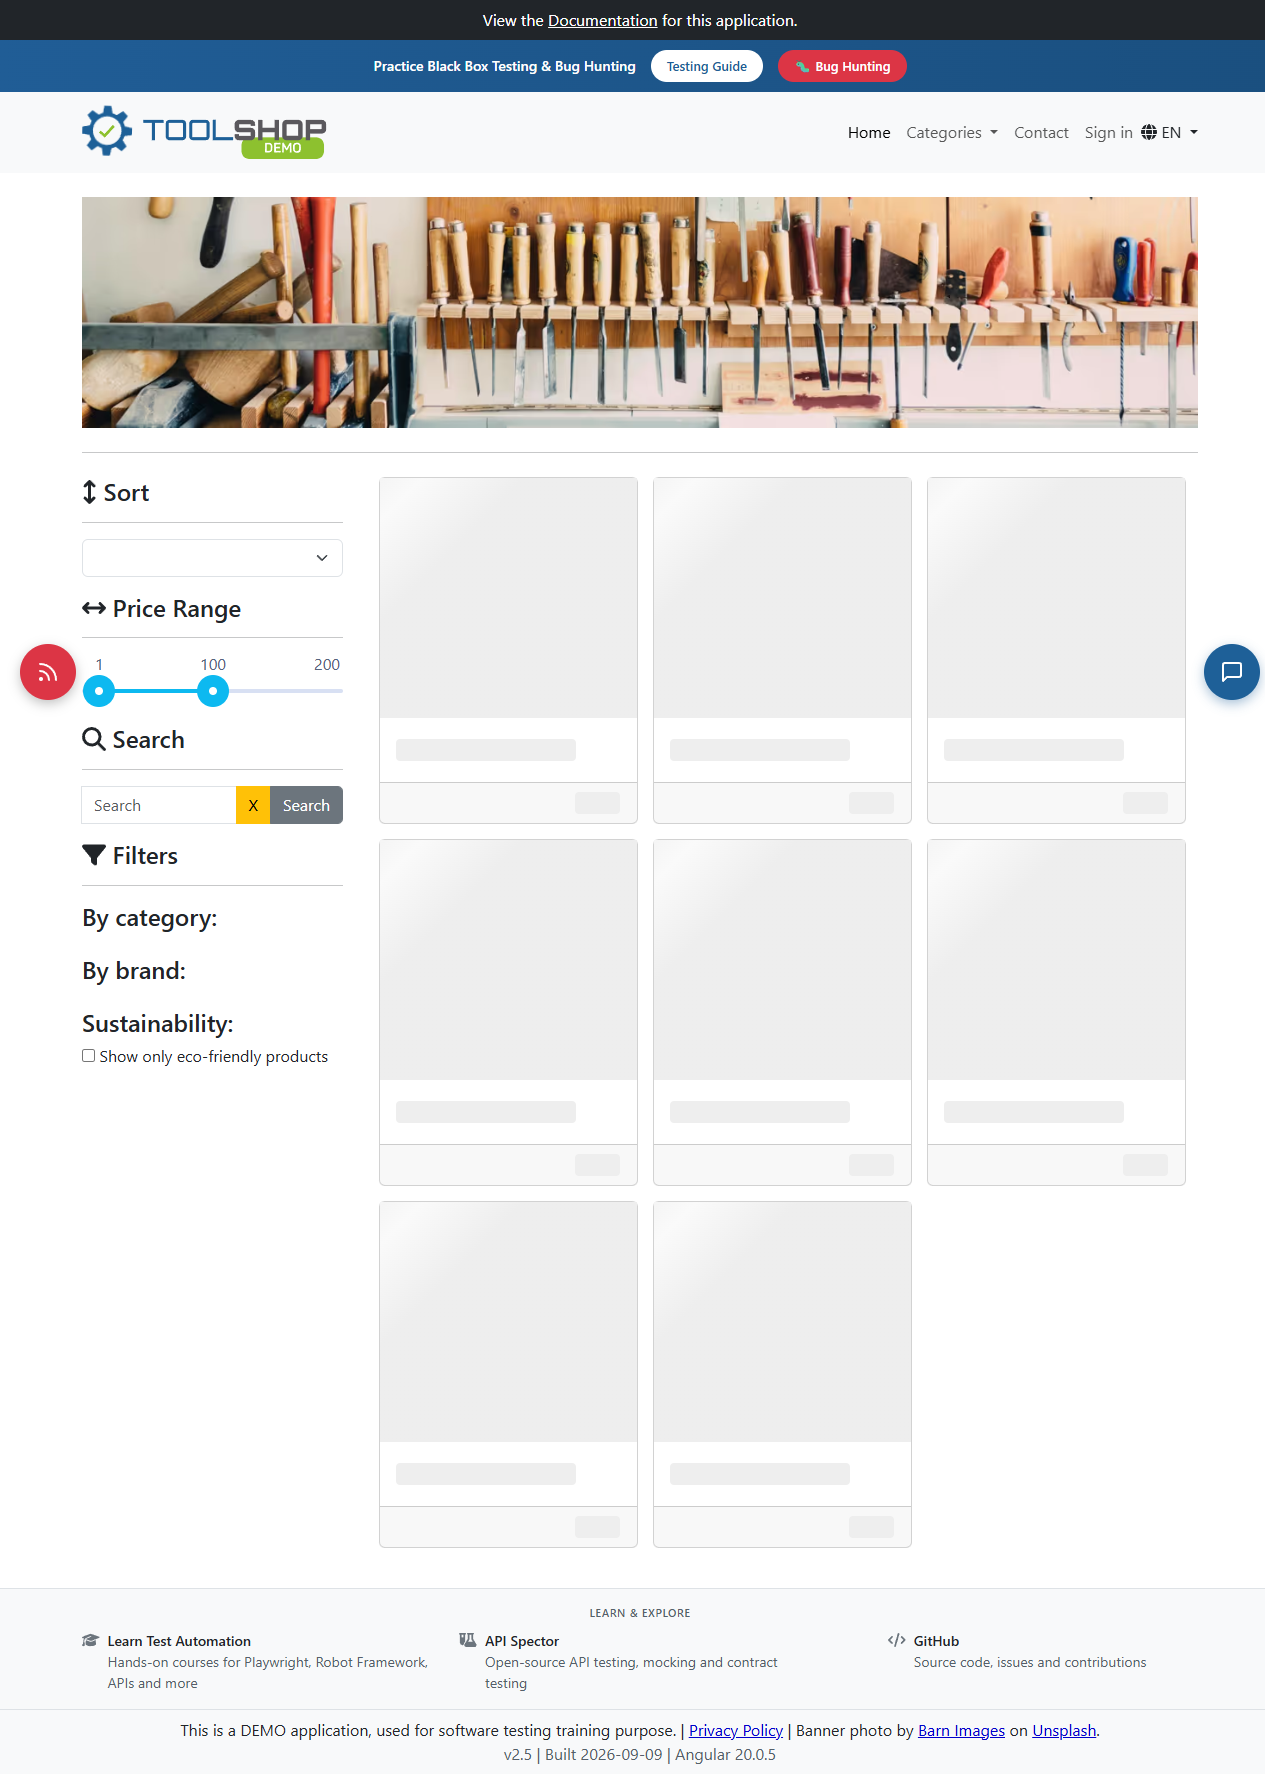
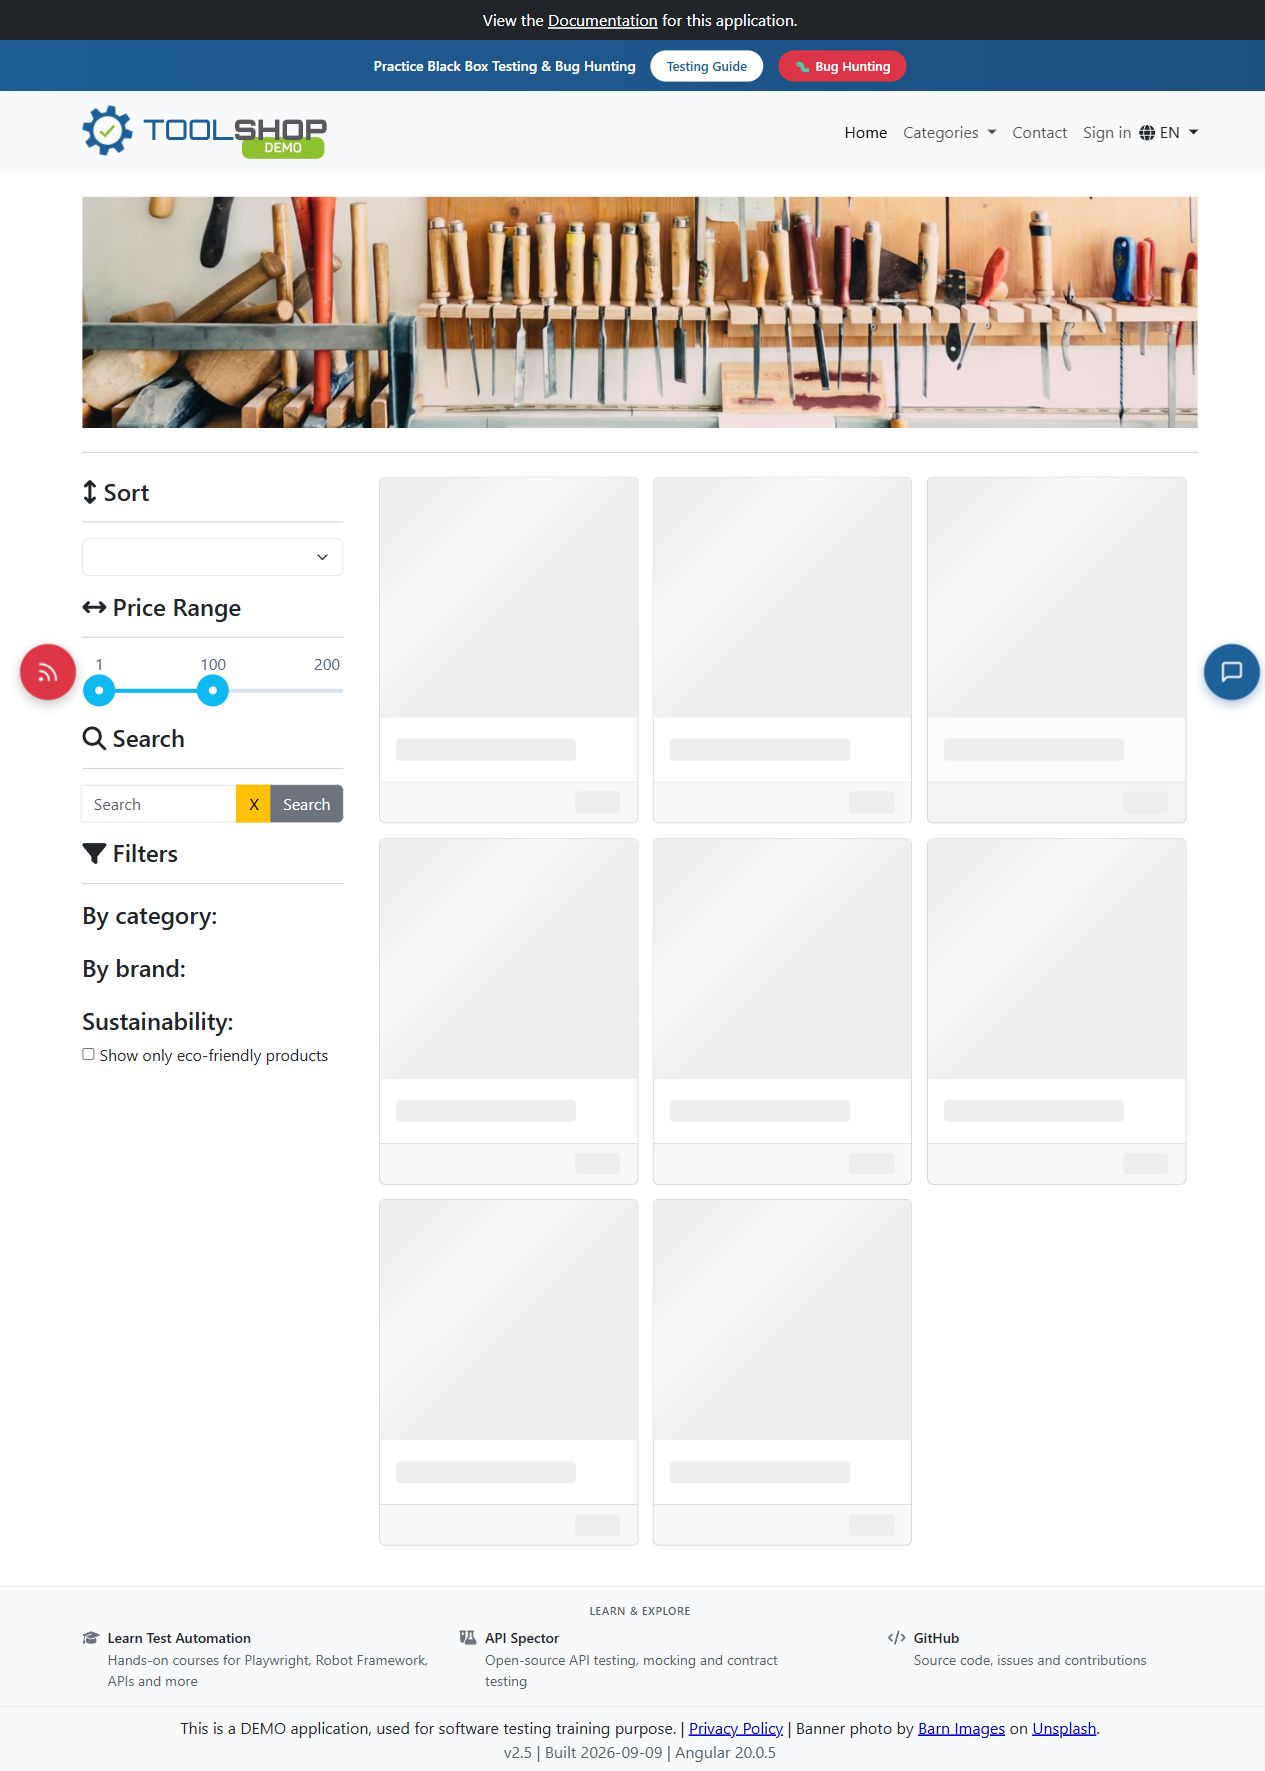
login fallido

diff --git a/tests/login.spec.ts b/tests/login.spec.ts
@@ -1,0 +1,22 @@
+import {test,expect} from "@playwright/test"
+
+test ("Login Exitoso",async({page})=>{
+await page.goto("https://practicesoftwaretesting.com/");//Ingresar a la pagina
+await page.getByTestId("nav-sign-in").click();//click btn iniciar sesion
+await page.getByTestId("email").fill("customer@practicesoftwaretesting.com"); //Add use
+await page.getByTestId("password").fill("welcome01"); //Add pass
+await page.getByTestId("login-submit").click();//click btn iniciar sesion
+await expect (page.getByTestId("page-title")).toContainText ("My account");
+});
+
+test ("Login Fallido",async({page})=>{
+await page.goto("https://practicesoftwaretesting.com/");//Ingresar a la pagina
+await page.getByTestId("nav-sign-in").click();//click btn iniciar sesion
+await page.getByTestId("email").fill("customer@practicesoftwaretesting.com"); //Add use
+await page.getByTestId("password").fill("welcome0"); //Add pass
+await page.getByTestId("login-submit").click();//click btn iniciar sesion
+
+ // Validar mensaje de error
+  const errorMessage = page.locator('[data-test="login-error"]'); 
+  await expect(errorMessage).toHaveText("Invalid email or password");
+});
